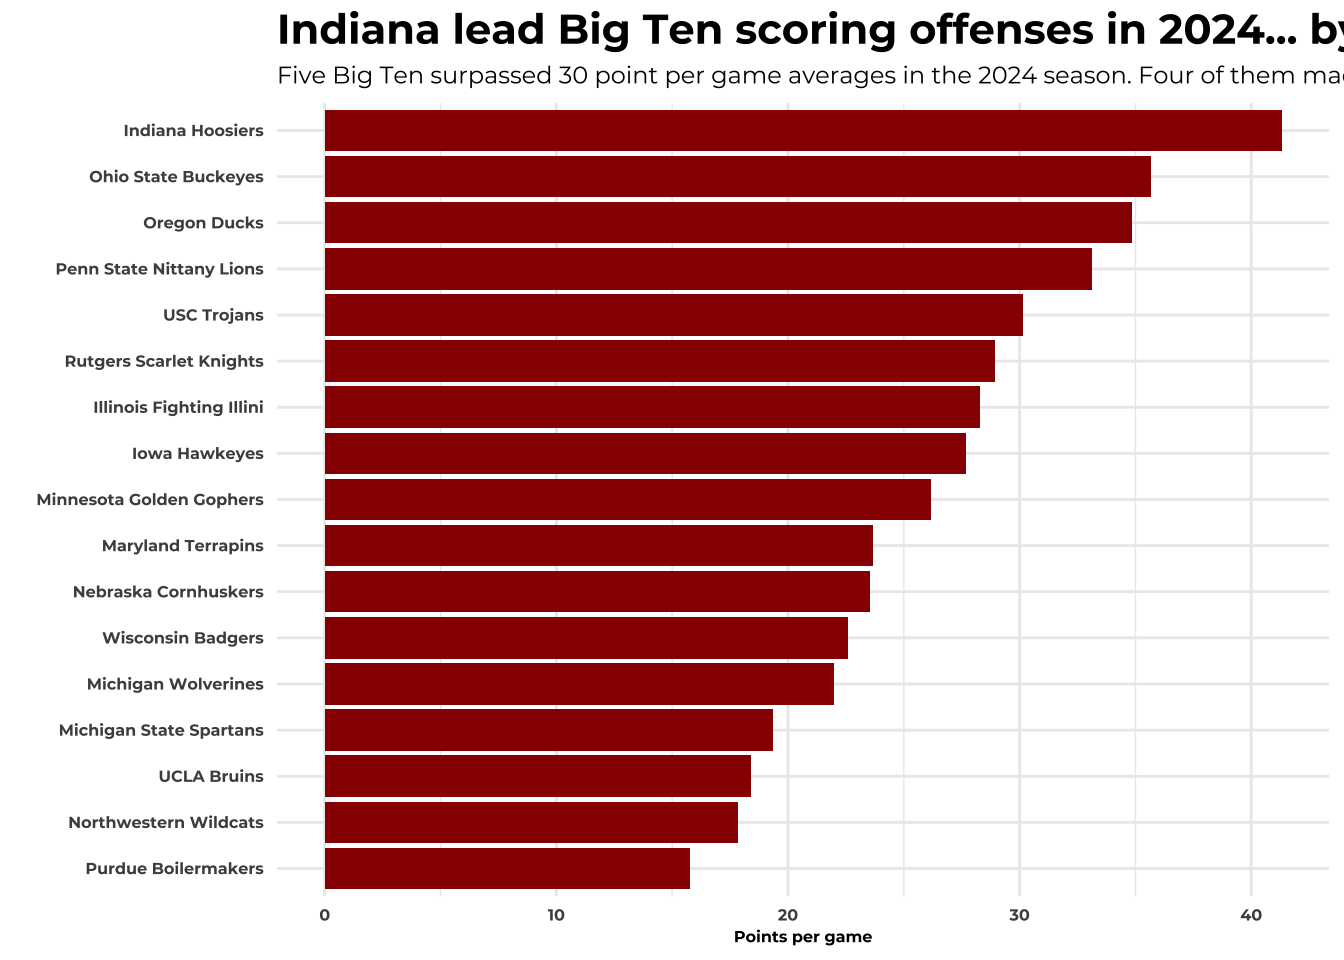
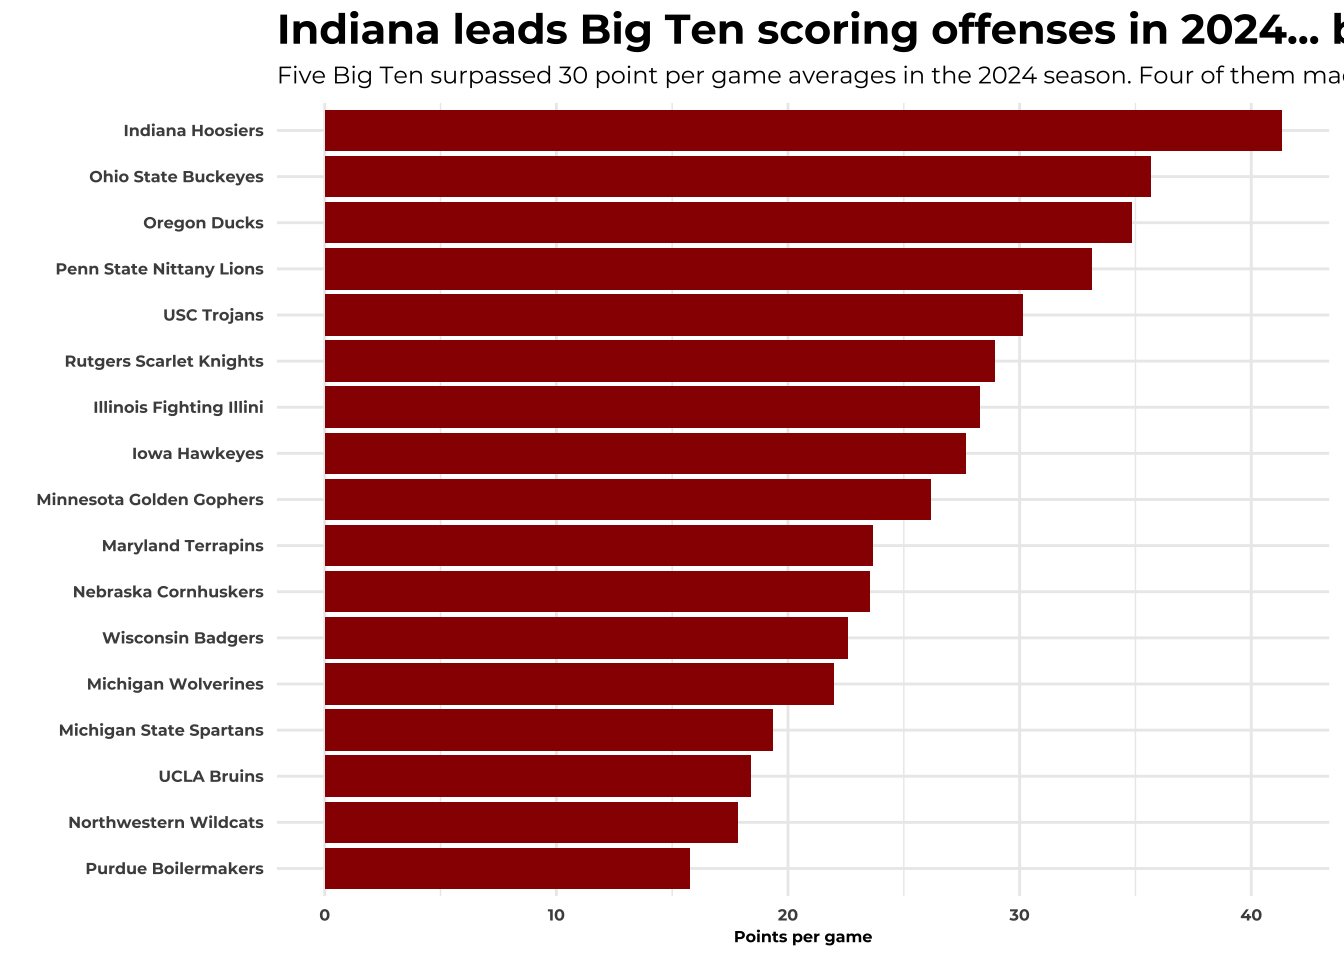
blog post

Changed region(s): [[0.4062, 0.0, 1.0, 0.0625]]

diff --git a/docs/posts/second-post/index.html b/docs/posts/second-post/index.html
@@ -185,6 +185,8 @@ pre > code.sourceCode > span > a:first-child::before { text-decoration: underlin
 
 
 
+<section id="so-who-is-actually-good-at-football-in-the-big-ten-turns-out-its-not-the-school-youre-thinking-of." class="level1">
+<h1>So who is actually good at football in the Big Ten? Turns out, it’s not the school you’re thinking of.</h1>
 <p>Loading libraries and data first</p>
 <div class="cell">
 <details class="code-fold">
@@ -262,9 +264,8 @@ date  (1): Date
 <span id="cb10-5"><a href="#cb10-5" aria-hidden="true" tabindex="-1"></a>bigten2025 <span class="ot">&lt;-</span> logs2025 <span class="sc">|&gt;</span> <span class="fu">filter</span>(TeamFull <span class="sc">%in%</span> big10)</span></code><button title="Copy to Clipboard" class="code-copy-button"><i class="bi"></i></button></pre></div>
 </details>
 </div>
-<h3 class="anchored">
-Finding the best scoring offense
-</h3>
+<section id="finding-the-big-tens-best-scoring-offenses" class="level3">
+<h3 class="anchored" data-anchor-id="finding-the-big-tens-best-scoring-offenses">Finding the Big Ten’s best scoring offenses</h3>
 <p>To be clear, this is not a fan blog. We here at this publication dedicated to whatever Derek assigned me to do this week are committed to impactful journalism with complete and utter objectivity.</p>
 <p>But the author of this post did attend Indiana University for his undergrad years, and may have a bit of a soft spot for this specific dataset which is just 2024 and 2025 data and — as of writing this post before Indiana plays Oregon this weekend — this is undoubtedly the most incredible stretch of Indiana football success in the history of the program. It isn’t even close for the team with the most losses in the history of the sport at a Division I level. So given the rare opportunity we have to discuss Hoosier football glory, let’s see just how good Indiana has been relative to a league that has produced the last two national champions and three of the last four teams to play in the national title game (Indiana beat two of those teams during the span of this dataset).</p>
 <p>Okay maybe this is actually a fan blog.</p>
@@ -279,7 +280,7 @@ Finding the best scoring offense
 <span id="cb11-5"><a href="#cb11-5" aria-hidden="true" tabindex="-1"></a>  <span class="fu">ggplot</span>(<span class="fu">aes</span>(<span class="at">x =</span> <span class="fu">reorder</span>(TeamFull, points_per_game), <span class="at">y =</span> points_per_game)) <span class="sc">+</span></span>
 <span id="cb11-6"><a href="#cb11-6" aria-hidden="true" tabindex="-1"></a>  <span class="fu">geom_col</span>(<span class="at">fill =</span> <span class="st">"#990000"</span>) <span class="sc">+</span></span>
 <span id="cb11-7"><a href="#cb11-7" aria-hidden="true" tabindex="-1"></a>  <span class="fu">coord_flip</span>() <span class="sc">+</span></span>
-<span id="cb11-8"><a href="#cb11-8" aria-hidden="true" tabindex="-1"></a>  <span class="fu">labs</span>(<span class="at">title =</span> <span class="st">"Indiana lead Big Ten scoring offenses in 2024... by a lot"</span>, <span class="at">subtitle =</span> <span class="st">"Five Big Ten surpassed 30 point per game averages in the 2024 season. Four of them made the College Football Playoff. But only one team — Indiana — surpassed the 40 point per game threshold."</span>, <span class="at">y =</span> <span class="st">"Points per game"</span>, <span class="at">x =</span> <span class="st">""</span>) <span class="sc">+</span></span>
+<span id="cb11-8"><a href="#cb11-8" aria-hidden="true" tabindex="-1"></a>  <span class="fu">labs</span>(<span class="at">title =</span> <span class="st">"Indiana leads Big Ten scoring offenses in 2024... by a lot"</span>, <span class="at">subtitle =</span> <span class="st">"Five Big Ten surpassed 30 point per game averages in the 2024 season. Four of them made the College Football Playoff. But only one team — Indiana — surpassed the 40 point per game threshold."</span>, <span class="at">y =</span> <span class="st">"Points per game"</span>, <span class="at">x =</span> <span class="st">""</span>) <span class="sc">+</span></span>
 <span id="cb11-9"><a href="#cb11-9" aria-hidden="true" tabindex="-1"></a>   <span class="fu">theme_minimal</span>() <span class="sc">+</span></span>
 <span id="cb11-10"><a href="#cb11-10" aria-hidden="true" tabindex="-1"></a>  <span class="fu">theme</span>(</span>
 <span id="cb11-11"><a href="#cb11-11" aria-hidden="true" tabindex="-1"></a>  <span class="at">axis.title =</span> <span class="fu">element_text</span>(<span class="at">size =</span> <span class="dv">6</span>, <span class="at">family =</span> <span class="st">"montserrat"</span>, <span class="at">face =</span> <span class="st">"bold"</span>),</span>
@@ -297,9 +298,135 @@ Finding the best scoring offense
 </div>
 </div>
 </div>
-<p>Indiana averaged 41.31 points per game in 2024. That’s the clear leader among Big Ten teams (for what it’s worth, that was also second best nationally behind Miami — and nothing at all went wrong for Miami in 2024 obviously!). The next closest is Ohio State at 35.69. That’s certainly a notable gap! Should we mention that Ohio State still beat Indiana and went on to win the national championship? I guess that’s probably important to note that scoring a lot of points doesn’t make you the BEST team. But it doesn’t hurt!</p>
+<p>Indiana averaged 41.31 points per game in 2024. That’s the clear leader among Big Ten teams (for what it’s worth, that was also second best nationally behind Miami — and nothing at all went wrong for Miami in 2024 obviously!). The next closest is Ohio State at 35.69. That’s certainly a notable gap!</p>
+<p>Should we mention that Ohio State still beat Indiana and went on to win the national championship? I guess that’s probably important to note that scoring a lot of points doesn’t make you the BEST team. But it doesn’t hurt!</p>
+<p>Now let’s look at 2025. What changed, if anything?</p>
+<div class="cell">
+<details class="code-fold">
+<summary>Code</summary>
+<div class="sourceCode cell-code" id="cb12"><pre class="sourceCode r code-with-copy"><code class="sourceCode r"><span id="cb12-1"><a href="#cb12-1" aria-hidden="true" tabindex="-1"></a>bigten2025 <span class="sc">|&gt;</span> </span>
+<span id="cb12-2"><a href="#cb12-2" aria-hidden="true" tabindex="-1"></a>  <span class="fu">group_by</span>(TeamFull) <span class="sc">|&gt;</span> </span>
+<span id="cb12-3"><a href="#cb12-3" aria-hidden="true" tabindex="-1"></a>  <span class="fu">summarize</span>(<span class="at">points_per_game =</span> <span class="fu">mean</span>(Points, <span class="at">na.rm =</span> <span class="cn">TRUE</span>)) <span class="sc">|&gt;</span> </span>
+<span id="cb12-4"><a href="#cb12-4" aria-hidden="true" tabindex="-1"></a>  <span class="fu">arrange</span>(<span class="fu">desc</span>(points_per_game)) <span class="sc">|&gt;</span> </span>
+<span id="cb12-5"><a href="#cb12-5" aria-hidden="true" tabindex="-1"></a>  <span class="fu">ggplot</span>(<span class="fu">aes</span>(<span class="at">x =</span> <span class="fu">reorder</span>(TeamFull, points_per_game), <span class="at">y =</span> points_per_game)) <span class="sc">+</span></span>
+<span id="cb12-6"><a href="#cb12-6" aria-hidden="true" tabindex="-1"></a>  <span class="fu">geom_col</span>(<span class="at">fill =</span> <span class="st">"#990000"</span>) <span class="sc">+</span></span>
+<span id="cb12-7"><a href="#cb12-7" aria-hidden="true" tabindex="-1"></a>  <span class="fu">coord_flip</span>() <span class="sc">+</span></span>
+<span id="cb12-8"><a href="#cb12-8" aria-hidden="true" tabindex="-1"></a>  <span class="fu">labs</span>(<span class="at">title =</span> <span class="st">"New faces join the Big Ten's top scoring offenses."</span>, <span class="at">subtitle =</span> <span class="st">"USC currently leads the Big Ten in scoring offense, but some less regarded teams like Nebraska have made big surges in 2025 compared to a season ago. Indiana still remains in the top two. But this time is indeed two."</span>, <span class="at">y =</span> <span class="st">"Points per game"</span>, <span class="at">x =</span> <span class="st">""</span>) <span class="sc">+</span></span>
+<span id="cb12-9"><a href="#cb12-9" aria-hidden="true" tabindex="-1"></a>   <span class="fu">theme_minimal</span>() <span class="sc">+</span></span>
+<span id="cb12-10"><a href="#cb12-10" aria-hidden="true" tabindex="-1"></a>  <span class="fu">theme</span>(</span>
+<span id="cb12-11"><a href="#cb12-11" aria-hidden="true" tabindex="-1"></a>  <span class="at">axis.title =</span> <span class="fu">element_text</span>(<span class="at">size =</span> <span class="dv">6</span>, <span class="at">family =</span> <span class="st">"montserrat"</span>, <span class="at">face =</span> <span class="st">"bold"</span>),</span>
+<span id="cb12-12"><a href="#cb12-12" aria-hidden="true" tabindex="-1"></a>    <span class="at">title =</span> <span class="fu">element_text</span>(<span class="at">size =</span> <span class="dv">13</span>, <span class="at">family =</span> <span class="st">"montserrat"</span>, <span class="at">face=</span><span class="st">"bold"</span>),</span>
+<span id="cb12-13"><a href="#cb12-13" aria-hidden="true" tabindex="-1"></a>    <span class="at">plot.subtitle =</span> <span class="fu">element_text</span>(<span class="at">family =</span> <span class="st">"montserrat"</span>, <span class="at">size =</span> <span class="dv">9</span>, <span class="at">face =</span> <span class="st">"plain"</span>),</span>
+<span id="cb12-14"><a href="#cb12-14" aria-hidden="true" tabindex="-1"></a>    <span class="at">plot.caption =</span> <span class="fu">element_text</span>(<span class="at">family =</span> <span class="st">"montserrat"</span>, <span class="at">size =</span> <span class="dv">8</span>, <span class="at">face =</span> <span class="st">"italic"</span>),</span>
+<span id="cb12-15"><a href="#cb12-15" aria-hidden="true" tabindex="-1"></a>  <span class="at">axis.text =</span> <span class="fu">element_text</span>(<span class="at">size =</span> <span class="dv">6</span>, <span class="at">family =</span> <span class="st">"montserrat"</span>, <span class="at">face =</span> <span class="st">"bold"</span>),</span>
+<span id="cb12-16"><a href="#cb12-16" aria-hidden="true" tabindex="-1"></a>  )</span></code><button title="Copy to Clipboard" class="code-copy-button"><i class="bi"></i></button></pre></div>
+</details>
+<div class="cell-output-display">
+<div>
+<figure class="figure">
+<p><img src="index_files/figure-html/unnamed-chunk-5-1.png" class="img-fluid figure-img" width="672"></p>
+</figure>
+</div>
+</div>
+</div>
+<p>There are also a lot big scoring numbers at the top of the chart here. There are four teams averaging more than 40 points so far this year.</p>
+<p>So is scoring up this year?</p>
+<div class="cell">
+<details class="code-fold">
+<summary>Code</summary>
+<div class="sourceCode cell-code" id="cb13"><pre class="sourceCode r code-with-copy"><code class="sourceCode r"><span id="cb13-1"><a href="#cb13-1" aria-hidden="true" tabindex="-1"></a>b1g2025ptsavg <span class="ot">&lt;-</span> bigten2025 <span class="sc">|&gt;</span> </span>
+<span id="cb13-2"><a href="#cb13-2" aria-hidden="true" tabindex="-1"></a>  <span class="fu">summarize</span>(<span class="at">avgpts =</span> <span class="fu">mean</span>(Points, <span class="at">na.rm =</span> <span class="cn">TRUE</span>)) <span class="sc">|&gt;</span> </span>
+<span id="cb13-3"><a href="#cb13-3" aria-hidden="true" tabindex="-1"></a>  <span class="fu">pull</span>(avgpts)</span>
+<span id="cb13-4"><a href="#cb13-4" aria-hidden="true" tabindex="-1"></a></span>
+<span id="cb13-5"><a href="#cb13-5" aria-hidden="true" tabindex="-1"></a>b1g2024ptsavg <span class="ot">&lt;-</span> bigten2024 <span class="sc">|&gt;</span> </span>
+<span id="cb13-6"><a href="#cb13-6" aria-hidden="true" tabindex="-1"></a>  <span class="fu">summarize</span>(<span class="at">avgpts =</span> <span class="fu">mean</span>(Points, <span class="at">na.rm =</span> <span class="cn">TRUE</span>)) <span class="sc">|&gt;</span> </span>
+<span id="cb13-7"><a href="#cb13-7" aria-hidden="true" tabindex="-1"></a>  <span class="fu">pull</span>(avgpts)</span>
+<span id="cb13-8"><a href="#cb13-8" aria-hidden="true" tabindex="-1"></a></span>
+<span id="cb13-9"><a href="#cb13-9" aria-hidden="true" tabindex="-1"></a>pct_change <span class="ot">&lt;-</span> ((b1g2025ptsavg <span class="sc">-</span> b1g2024ptsavg) <span class="sc">/</span> b1g2024ptsavg) <span class="sc">*</span> <span class="dv">100</span></span>
+<span id="cb13-10"><a href="#cb13-10" aria-hidden="true" tabindex="-1"></a></span>
+<span id="cb13-11"><a href="#cb13-11" aria-hidden="true" tabindex="-1"></a>avg_data <span class="ot">&lt;-</span> <span class="fu">tibble</span>(</span>
+<span id="cb13-12"><a href="#cb13-12" aria-hidden="true" tabindex="-1"></a>  <span class="at">Year =</span> <span class="fu">c</span>(<span class="dv">2024</span>, <span class="dv">2025</span>),</span>
+<span id="cb13-13"><a href="#cb13-13" aria-hidden="true" tabindex="-1"></a>  <span class="at">Average =</span> <span class="fu">c</span>(b1g2024ptsavg, b1g2025ptsavg)</span>
+<span id="cb13-14"><a href="#cb13-14" aria-hidden="true" tabindex="-1"></a>)</span>
+<span id="cb13-15"><a href="#cb13-15" aria-hidden="true" tabindex="-1"></a></span>
+<span id="cb13-16"><a href="#cb13-16" aria-hidden="true" tabindex="-1"></a><span class="fu">ggplot</span>(avg_data, <span class="fu">aes</span>(<span class="at">x =</span> <span class="fu">factor</span>(Year), <span class="at">y =</span> Average, <span class="at">group =</span> <span class="dv">1</span>)) <span class="sc">+</span></span>
+<span id="cb13-17"><a href="#cb13-17" aria-hidden="true" tabindex="-1"></a>  <span class="fu">geom_line</span>(<span class="at">color =</span> <span class="st">"#990000"</span>, <span class="at">linewidth =</span> <span class="fl">1.2</span>) <span class="sc">+</span></span>
+<span id="cb13-18"><a href="#cb13-18" aria-hidden="true" tabindex="-1"></a>  <span class="fu">geom_point</span>(<span class="at">size =</span> <span class="dv">3</span>, <span class="at">color =</span> <span class="st">"#990000"</span>) <span class="sc">+</span></span>
+<span id="cb13-19"><a href="#cb13-19" aria-hidden="true" tabindex="-1"></a>  <span class="fu">labs</span>(</span>
+<span id="cb13-20"><a href="#cb13-20" aria-hidden="true" tabindex="-1"></a>    <span class="at">title =</span> <span class="st">"Scoring in the Big Ten is up in 2025"</span>,</span>
+<span id="cb13-21"><a href="#cb13-21" aria-hidden="true" tabindex="-1"></a>    <span class="at">subtitle =</span> <span class="st">"But this data isn't balanced yet. It is comparing the full 2024 season against the first five games in 2025."</span>,</span>
+<span id="cb13-22"><a href="#cb13-22" aria-hidden="true" tabindex="-1"></a>    <span class="at">x =</span> <span class="st">"Year"</span>,</span>
+<span id="cb13-23"><a href="#cb13-23" aria-hidden="true" tabindex="-1"></a>    <span class="at">y =</span> <span class="st">"Average Points"</span></span>
+<span id="cb13-24"><a href="#cb13-24" aria-hidden="true" tabindex="-1"></a>  ) <span class="sc">+</span></span>
+<span id="cb13-25"><a href="#cb13-25" aria-hidden="true" tabindex="-1"></a>  <span class="fu">theme_minimal</span>() <span class="sc">+</span></span>
+<span id="cb13-26"><a href="#cb13-26" aria-hidden="true" tabindex="-1"></a>  <span class="fu">theme</span>(</span>
+<span id="cb13-27"><a href="#cb13-27" aria-hidden="true" tabindex="-1"></a>  <span class="at">axis.title =</span> <span class="fu">element_text</span>(<span class="at">size =</span> <span class="dv">6</span>, <span class="at">family =</span> <span class="st">"montserrat"</span>, <span class="at">face =</span> <span class="st">"bold"</span>),</span>
+<span id="cb13-28"><a href="#cb13-28" aria-hidden="true" tabindex="-1"></a>    <span class="at">title =</span> <span class="fu">element_text</span>(<span class="at">size =</span> <span class="dv">13</span>, <span class="at">family =</span> <span class="st">"montserrat"</span>, <span class="at">face=</span><span class="st">"bold"</span>),</span>
+<span id="cb13-29"><a href="#cb13-29" aria-hidden="true" tabindex="-1"></a>    <span class="at">plot.subtitle =</span> <span class="fu">element_text</span>(<span class="at">family =</span> <span class="st">"montserrat"</span>, <span class="at">size =</span> <span class="dv">9</span>, <span class="at">face =</span> <span class="st">"plain"</span>),</span>
+<span id="cb13-30"><a href="#cb13-30" aria-hidden="true" tabindex="-1"></a>    <span class="at">plot.caption =</span> <span class="fu">element_text</span>(<span class="at">family =</span> <span class="st">"montserrat"</span>, <span class="at">size =</span> <span class="dv">8</span>, <span class="at">face =</span> <span class="st">"italic"</span>),</span>
+<span id="cb13-31"><a href="#cb13-31" aria-hidden="true" tabindex="-1"></a>  <span class="at">axis.text =</span> <span class="fu">element_text</span>(<span class="at">size =</span> <span class="dv">6</span>, <span class="at">family =</span> <span class="st">"montserrat"</span>, <span class="at">face =</span> <span class="st">"bold"</span>),</span>
+<span id="cb13-32"><a href="#cb13-32" aria-hidden="true" tabindex="-1"></a>  )</span></code><button title="Copy to Clipboard" class="code-copy-button"><i class="bi"></i></button></pre></div>
+</details>
+<div class="cell-output-display">
+<div>
+<figure class="figure">
+<p><img src="index_files/figure-html/unnamed-chunk-6-1.png" class="img-fluid figure-img" width="672"></p>
+</figure>
+</div>
+</div>
+</div>
+<p>Scoring is up about 27% in the Big Ten this year. Granted, most of the games played are still non-conference games so we can’t really compare that number too much given the higher unbalanced sample size of cupcake games relative to power conference opponents.</p>
+<p>So let’s check that out.</p>
+<div class="cell">
+<details class="code-fold">
+<summary>Code</summary>
+<div class="sourceCode cell-code" id="cb14"><pre class="sourceCode r code-with-copy"><code class="sourceCode r"><span id="cb14-1"><a href="#cb14-1" aria-hidden="true" tabindex="-1"></a>b1g2025ptsavg <span class="ot">&lt;-</span> bigten2025 <span class="sc">|&gt;</span> </span>
+<span id="cb14-2"><a href="#cb14-2" aria-hidden="true" tabindex="-1"></a>  <span class="fu">summarize</span>(<span class="at">avgpts =</span> <span class="fu">mean</span>(Points, <span class="at">na.rm =</span> <span class="cn">TRUE</span>)) <span class="sc">|&gt;</span></span>
+<span id="cb14-3"><a href="#cb14-3" aria-hidden="true" tabindex="-1"></a>  <span class="fu">pull</span>(avgpts)</span>
+<span id="cb14-4"><a href="#cb14-4" aria-hidden="true" tabindex="-1"></a></span>
+<span id="cb14-5"><a href="#cb14-5" aria-hidden="true" tabindex="-1"></a>adjustedb1g2024ptsavg <span class="ot">&lt;-</span> bigten2024 <span class="sc">|&gt;</span> <span class="fu">filter</span>(Gtm <span class="sc">&lt;=</span> <span class="dv">5</span>) <span class="sc">|&gt;</span> </span>
+<span id="cb14-6"><a href="#cb14-6" aria-hidden="true" tabindex="-1"></a>  <span class="fu">summarize</span>(<span class="at">avgpts =</span> <span class="fu">mean</span>(Points, <span class="at">na.rm =</span> <span class="cn">TRUE</span>)) <span class="sc">|&gt;</span> </span>
+<span id="cb14-7"><a href="#cb14-7" aria-hidden="true" tabindex="-1"></a>  <span class="fu">pull</span>(avgpts)</span>
+<span id="cb14-8"><a href="#cb14-8" aria-hidden="true" tabindex="-1"></a></span>
+<span id="cb14-9"><a href="#cb14-9" aria-hidden="true" tabindex="-1"></a>adjusted_pct_change <span class="ot">&lt;-</span> ((b1g2025ptsavg<span class="sc">-</span>adjustedb1g2024ptsavg)<span class="sc">/</span>adjustedb1g2024ptsavg)<span class="sc">*</span><span class="dv">100</span></span>
+<span id="cb14-10"><a href="#cb14-10" aria-hidden="true" tabindex="-1"></a></span>
+<span id="cb14-11"><a href="#cb14-11" aria-hidden="true" tabindex="-1"></a>avg_data <span class="ot">&lt;-</span> <span class="fu">tibble</span>(</span>
+<span id="cb14-12"><a href="#cb14-12" aria-hidden="true" tabindex="-1"></a>  <span class="at">Year =</span> <span class="fu">c</span>(<span class="dv">2024</span>, <span class="dv">2025</span>),</span>
+<span id="cb14-13"><a href="#cb14-13" aria-hidden="true" tabindex="-1"></a>  <span class="at">Average =</span> <span class="fu">c</span>(adjustedb1g2024ptsavg, b1g2025ptsavg)</span>
+<span id="cb14-14"><a href="#cb14-14" aria-hidden="true" tabindex="-1"></a>)</span>
+<span id="cb14-15"><a href="#cb14-15" aria-hidden="true" tabindex="-1"></a></span>
+<span id="cb14-16"><a href="#cb14-16" aria-hidden="true" tabindex="-1"></a><span class="fu">ggplot</span>(avg_data, <span class="fu">aes</span>(<span class="at">x =</span> <span class="fu">factor</span>(Year), <span class="at">y =</span> Average, <span class="at">group =</span> <span class="dv">1</span>)) <span class="sc">+</span></span>
+<span id="cb14-17"><a href="#cb14-17" aria-hidden="true" tabindex="-1"></a>  <span class="fu">geom_line</span>(<span class="at">color =</span> <span class="st">"#990000"</span>, <span class="at">linewidth =</span> <span class="fl">1.2</span>) <span class="sc">+</span></span>
+<span id="cb14-18"><a href="#cb14-18" aria-hidden="true" tabindex="-1"></a>  <span class="fu">geom_point</span>(<span class="at">size =</span> <span class="dv">3</span>, <span class="at">color =</span> <span class="st">"#990000"</span>) <span class="sc">+</span></span>
+<span id="cb14-19"><a href="#cb14-19" aria-hidden="true" tabindex="-1"></a>  <span class="fu">labs</span>(</span>
+<span id="cb14-20"><a href="#cb14-20" aria-hidden="true" tabindex="-1"></a>    <span class="at">title =</span> <span class="st">"Even with adjusted data, scoring is still up in 2025"</span>,</span>
+<span id="cb14-21"><a href="#cb14-21" aria-hidden="true" tabindex="-1"></a>    <span class="at">subtitle =</span> <span class="st">"Through the first five games of both the 2024 and 2025 seasons, this year's average scoring in the Big Ten is up by about five points per game."</span>,</span>
+<span id="cb14-22"><a href="#cb14-22" aria-hidden="true" tabindex="-1"></a>    <span class="at">x =</span> <span class="st">"Year"</span>,</span>
+<span id="cb14-23"><a href="#cb14-23" aria-hidden="true" tabindex="-1"></a>    <span class="at">y =</span> <span class="st">"Average Points"</span></span>
+<span id="cb14-24"><a href="#cb14-24" aria-hidden="true" tabindex="-1"></a>  ) <span class="sc">+</span></span>
+<span id="cb14-25"><a href="#cb14-25" aria-hidden="true" tabindex="-1"></a>  <span class="fu">theme_minimal</span>() <span class="sc">+</span></span>
+<span id="cb14-26"><a href="#cb14-26" aria-hidden="true" tabindex="-1"></a>  <span class="fu">theme</span>(</span>
+<span id="cb14-27"><a href="#cb14-27" aria-hidden="true" tabindex="-1"></a>  <span class="at">axis.title =</span> <span class="fu">element_text</span>(<span class="at">size =</span> <span class="dv">6</span>, <span class="at">family =</span> <span class="st">"montserrat"</span>, <span class="at">face =</span> <span class="st">"bold"</span>),</span>
+<span id="cb14-28"><a href="#cb14-28" aria-hidden="true" tabindex="-1"></a>    <span class="at">title =</span> <span class="fu">element_text</span>(<span class="at">size =</span> <span class="dv">13</span>, <span class="at">family =</span> <span class="st">"montserrat"</span>, <span class="at">face=</span><span class="st">"bold"</span>),</span>
+<span id="cb14-29"><a href="#cb14-29" aria-hidden="true" tabindex="-1"></a>    <span class="at">plot.subtitle =</span> <span class="fu">element_text</span>(<span class="at">family =</span> <span class="st">"montserrat"</span>, <span class="at">size =</span> <span class="dv">9</span>, <span class="at">face =</span> <span class="st">"plain"</span>),</span>
+<span id="cb14-30"><a href="#cb14-30" aria-hidden="true" tabindex="-1"></a>    <span class="at">plot.caption =</span> <span class="fu">element_text</span>(<span class="at">family =</span> <span class="st">"montserrat"</span>, <span class="at">size =</span> <span class="dv">8</span>, <span class="at">face =</span> <span class="st">"italic"</span>),</span>
+<span id="cb14-31"><a href="#cb14-31" aria-hidden="true" tabindex="-1"></a>  <span class="at">axis.text =</span> <span class="fu">element_text</span>(<span class="at">size =</span> <span class="dv">6</span>, <span class="at">family =</span> <span class="st">"montserrat"</span>, <span class="at">face =</span> <span class="st">"bold"</span>),</span>
+<span id="cb14-32"><a href="#cb14-32" aria-hidden="true" tabindex="-1"></a>  )</span></code><button title="Copy to Clipboard" class="code-copy-button"><i class="bi"></i></button></pre></div>
+</details>
+<div class="cell-output-display">
+<div>
+<figure class="figure">
+<p><img src="index_files/figure-html/unnamed-chunk-7-1.png" class="img-fluid figure-img" width="672"></p>
+</figure>
+</div>
+</div>
+</div>
+<p>Turns out scoring is still up over the first games of the season (balanced where being five games into the 2025 season), but quite a bit less than 27%. 17.4% is still a pretty big jump in scoring through.</p>
+<p>And Indiana is still second in the Big Ten. The Hoosiers are scoring 47.8 points per game so far, less than a point behind Big Ten leaders USC.</p>
 
 
+</section>
+</section>
 
 </main> <!-- /main -->
 <script id="quarto-html-after-body" type="application/javascript">
